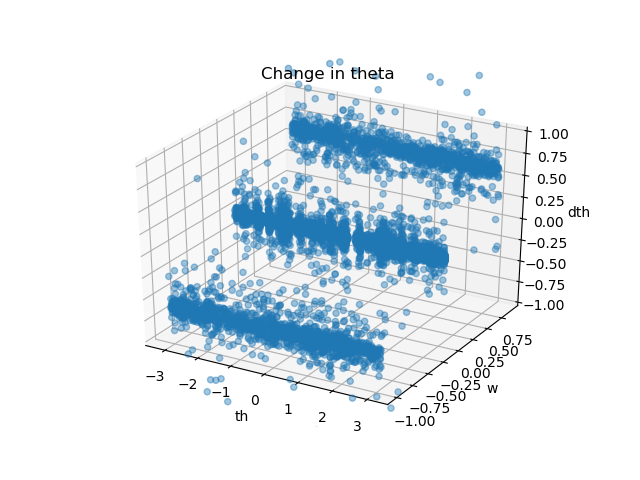
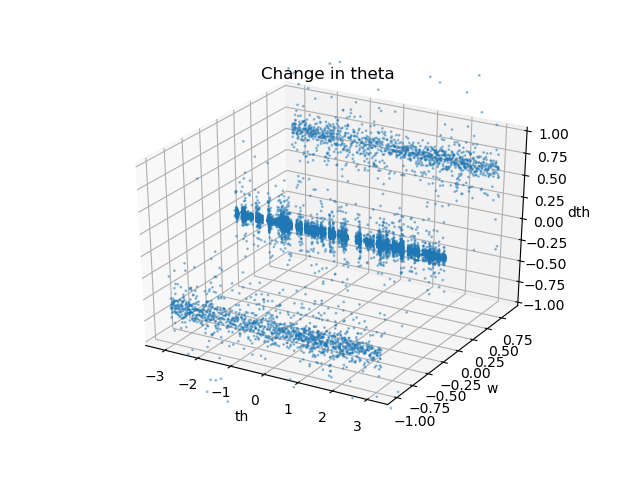
updates to pics

diff --git a/HW2/data_creation.py b/HW2/data_creation.py
@@ -150,39 +150,43 @@ class DataCreation(object):
 
         fig = plt.figure()
         ax = fig.add_subplot(111, projection='3d')
-        ax.scatter(v, w, zs=x)
+        ax.scatter(v, w, zs=x, s=1)
         plt.xlabel('v')
         plt.ylabel('w')
         ax.set_zlabel('dx')
+        ax.set_zlim(-.5, .5)
         plt.title('Change in x')
 
         fig = plt.figure()
         ax = fig.add_subplot(111, projection='3d')
-        ax.scatter(v, self.fin_arr[0:,6], zs=x)
+        ax.scatter(v, self.fin_arr[0:,6], zs=x, s=1)
         plt.xlabel('v')
         plt.ylabel('th')
         ax.set_zlabel('dx')
+        ax.set_zlim(-.5, .5)
         plt.title('Change in x')
 
         fig = plt.figure()
         ax = fig.add_subplot(111, projection='3d')
-        ax.scatter(v, w, zs=y)
+        ax.scatter(v, w, zs=y, s=1)
         plt.xlabel('v')
         plt.ylabel('w')
         ax.set_zlabel('dy')
+        ax.set_zlim(-.5, .5)
         plt.title('Change in y')
 
         fig = plt.figure()
         ax = fig.add_subplot(111, projection='3d')
-        ax.scatter(v, self.fin_arr[0:,6], zs=y)
+        ax.scatter(v, self.fin_arr[0:,6], zs=y, s=1)
         plt.xlabel('v')
         plt.ylabel('th')
         ax.set_zlabel('dy')
+        ax.set_zlim(-.5, .5)
         plt.title('Change in y')
 
         fig = plt.figure()
         ax = fig.add_subplot(111, projection='3d')
-        ax.scatter(v, w, zs=th)
+        ax.scatter(v, w, zs=th, s=1)
         plt.xlabel('v')
         plt.ylabel('w')
         ax.set_zlabel('dth')
@@ -191,7 +195,7 @@ class DataCreation(object):
 
         fig = plt.figure()
         ax = fig.add_subplot(111, projection='3d')
-        ax.scatter(self.fin_arr[0:,6], w, zs=th)
+        ax.scatter(self.fin_arr[0:,6], w, zs=th, s=1)
         plt.xlabel('th')
         plt.ylabel('w')
         ax.set_zlabel('dth')
